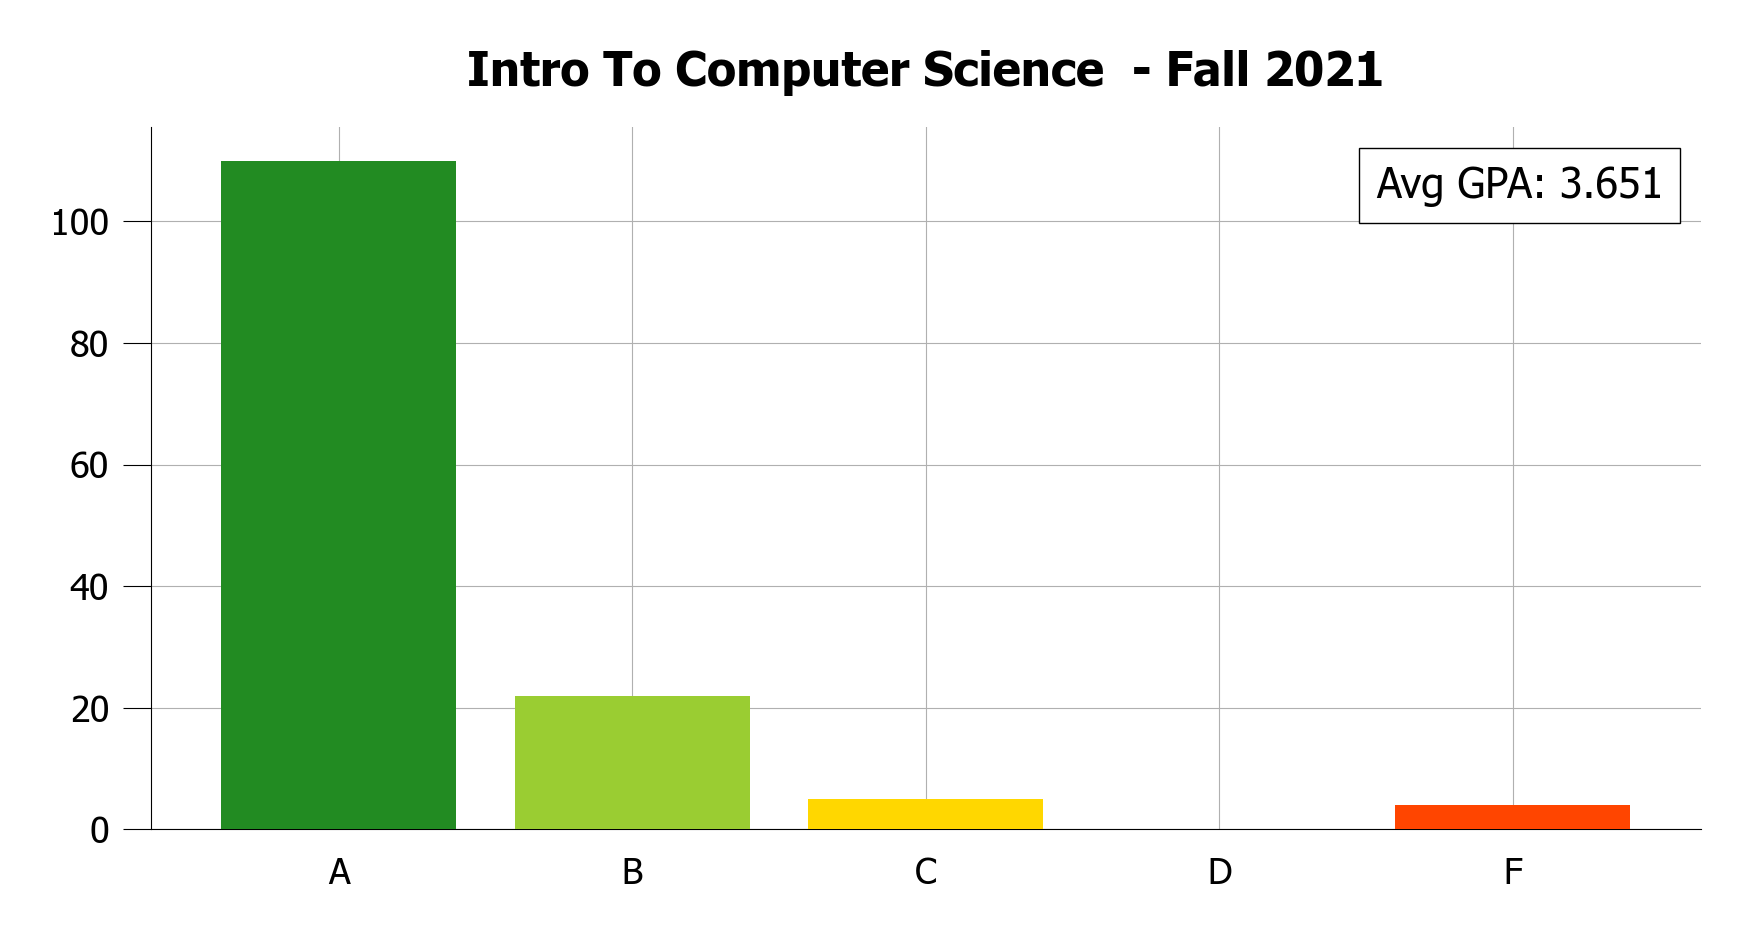
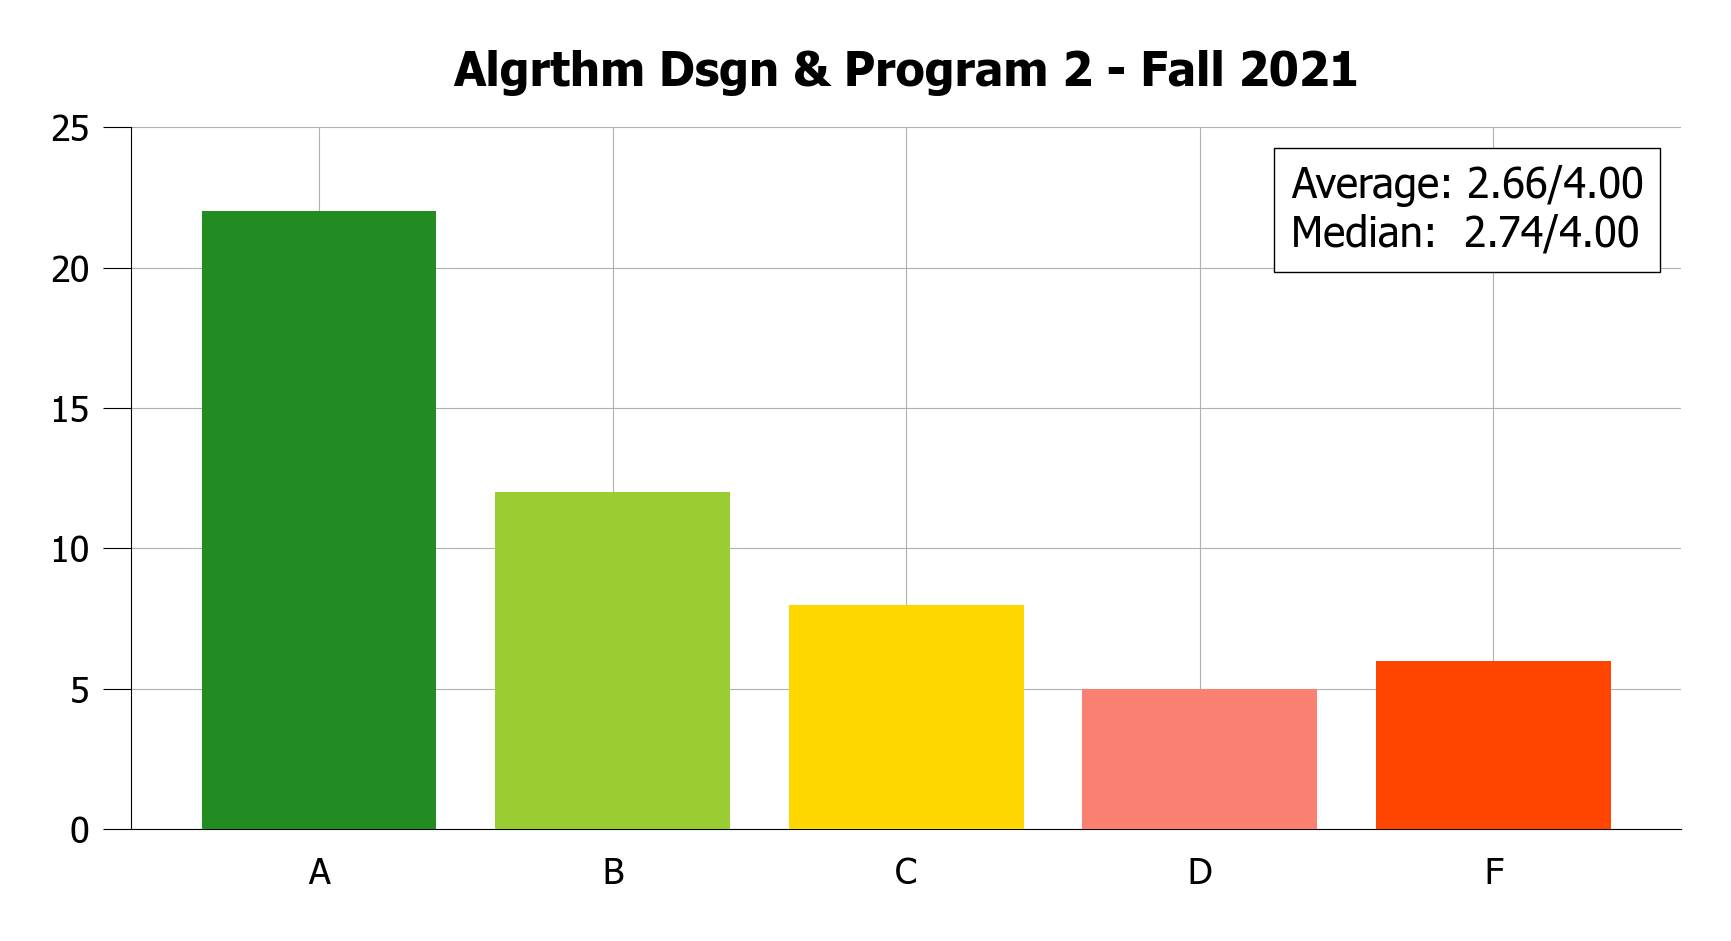
added median

diff --git a/grades/Course.py b/grades/Course.py
@@ -3,7 +3,7 @@ from dataclasses import dataclass
 
 @dataclass
 class Course:
-    department: str
+    dept: str
     title: str
     number: str
     section: str
@@ -15,11 +15,12 @@ class Course:
     crange: int
     drange: int
     frange: int
-    avggrade: float
+    average: float
+    median: float = 0.0
 
     def __str__(self):
         res = ''
-        res += ("Department: " + self.department + "\n")
+        res += ("Department: " + self.dept + "\n")
         res += ("Title: " + self.title + "\n")
         res += ("Number: " + self.number + "\n")
         res += ("Section: " + self.section + "\n")
@@ -31,15 +32,16 @@ class Course:
         res += ("C Range: " + str(self.crange) + "\n")
         res += ("D Range: " + str(self.drange) + "\n")
         res += ("F Range: " + str(self.frange) + "\n")
-        res += ("Average Grade: " + str(self.avggrade) + "\n")
+        res += ("Average: " + str(self.average) + "\n")
+        res += ("Median: " + str(self.median) + "\n")
         return res
 
-courseList = []
+def setMedian(course):
+    if getTotalStudents(course) == 0:
+        course.median = 0.000
+    course.median = round(((4*course.arange + 3*course.brange + 2*course.crange + course.drange)/getTotalStudents(course)),2)
 
-with open('grades.txt') as csv_file:
-    csv_reader = csv.reader(csv_file, delimiter='\t')
-    for row in csv_reader:
-        courseList.append(Course(row[0],row[1],row[2],row[3],row[4],row[5],row[6],int(row[7]),int(row[8]),int(row[9]),int(row[10]),int(row[11]),float(row[12])))
+courseList = []
 
 def getCourseList():
     return courseList
@@ -56,3 +58,10 @@ def getTerm(course):
 
 def getTotalStudents(course):
     return course.arange + course.brange + course.crange + course.drange + course.frange
+
+with open('grades.txt') as csv_file:
+    csv_reader = csv.reader(csv_file, delimiter='\t')
+    for row in csv_reader:
+        course1 = Course(row[0],row[1],row[2],row[3],row[4],row[5],row[6],int(row[7]),int(row[8]),int(row[9]),int(row[10]),int(row[11]),round(float(row[12]),2),0.0)
+        setMedian(course1)
+        courseList.append(course1)

diff --git a/main.py b/main.py
@@ -27,7 +27,7 @@ async def on_message(message):
       gradecalculations.generateCourseImage(course1)
       embed=discord.Embed(
         color=0xF59F16,
-        description = "**{} {}**".format(course1.department, course1.number),
+        description = "**{} {}**".format(course1.dept, course1.number),
       )
       embed.set_author(
       name = 'MU Grades',
@@ -39,8 +39,8 @@ async def on_message(message):
       embed.add_field(name="**Instructor**", value="{}".format(course1.instructor.title()), inline=True)
       embed.add_field(name="**Section**", value="{}".format(course1.section), inline=True)
       embed.add_field(name="**Total Students**", value="{}".format(str(Course.getTotalStudents(course1))), inline=True)
-      file = discord.File("graph.png", filename="{}_{}.png".format(course1.department, course1.number))
-      embed.set_image(url="attachment://{}_{}.png".format(course1.department, course1.number))
+      file = discord.File("graph.png", filename="{}_{}.png".format(course1.dept, course1.number))
+      embed.set_image(url="attachment://{}_{}.png".format(course1.dept, course1.number))
       await message.channel.send(file=file, embed=embed)
     else:
       embed=discord.Embed(

diff --git a/grades/gradecalculations.py b/grades/gradecalculations.py
@@ -17,7 +17,7 @@ def getCourse(searchCriteriaUnsplit):
     for course in courseList:
         for criteria in range(len(searchCriteria)):
             searchCriteria[criteria] = intendedwords.getIntendedWord(searchCriteria[criteria])
-            if searchCriteria[criteria] in str(course.department).lower():
+            if searchCriteria[criteria] in str(course.dept).lower():
                 currentMatches += (10-(criteria))
             if len(searchCriteria[criteria]) > 2 and searchCriteria[criteria] in str(course.title).lower():
                 currentMatches += (10-(criteria))
@@ -48,8 +48,9 @@ def generateCourseImage(course):
 
     fig, ax = plt.subplots()
     fig.set_size_inches(20, 9)
-    at = AnchoredText("Avg GPA: " + str(course.avggrade), prop=dict(size=30), frameon=True, loc='upper right')
+    at = AnchoredText("Average: {:.2f}/4.00\nMedian:  {:.2f}/4.00".format(course.average, course.median), prop=dict(size=30), frameon=True, loc='upper right')
     ax.add_artist(at)
+
     ax1 = plt.subplot()
     ax1.tick_params('y', length=20, pad=10.0)
     ay1 = plt.subplot()

diff --git a/grades/intendedwords.py b/grades/intendedwords.py
@@ -3,7 +3,8 @@ intendedWords = {
     "fall": "fs",
     "spring": "sp",
     "winter": "ws",
-    "summer": "ss"
+    "summer": "ss",
+    "dsgn" : "design"
 }
 
 def getIntendedWord(criteria):
